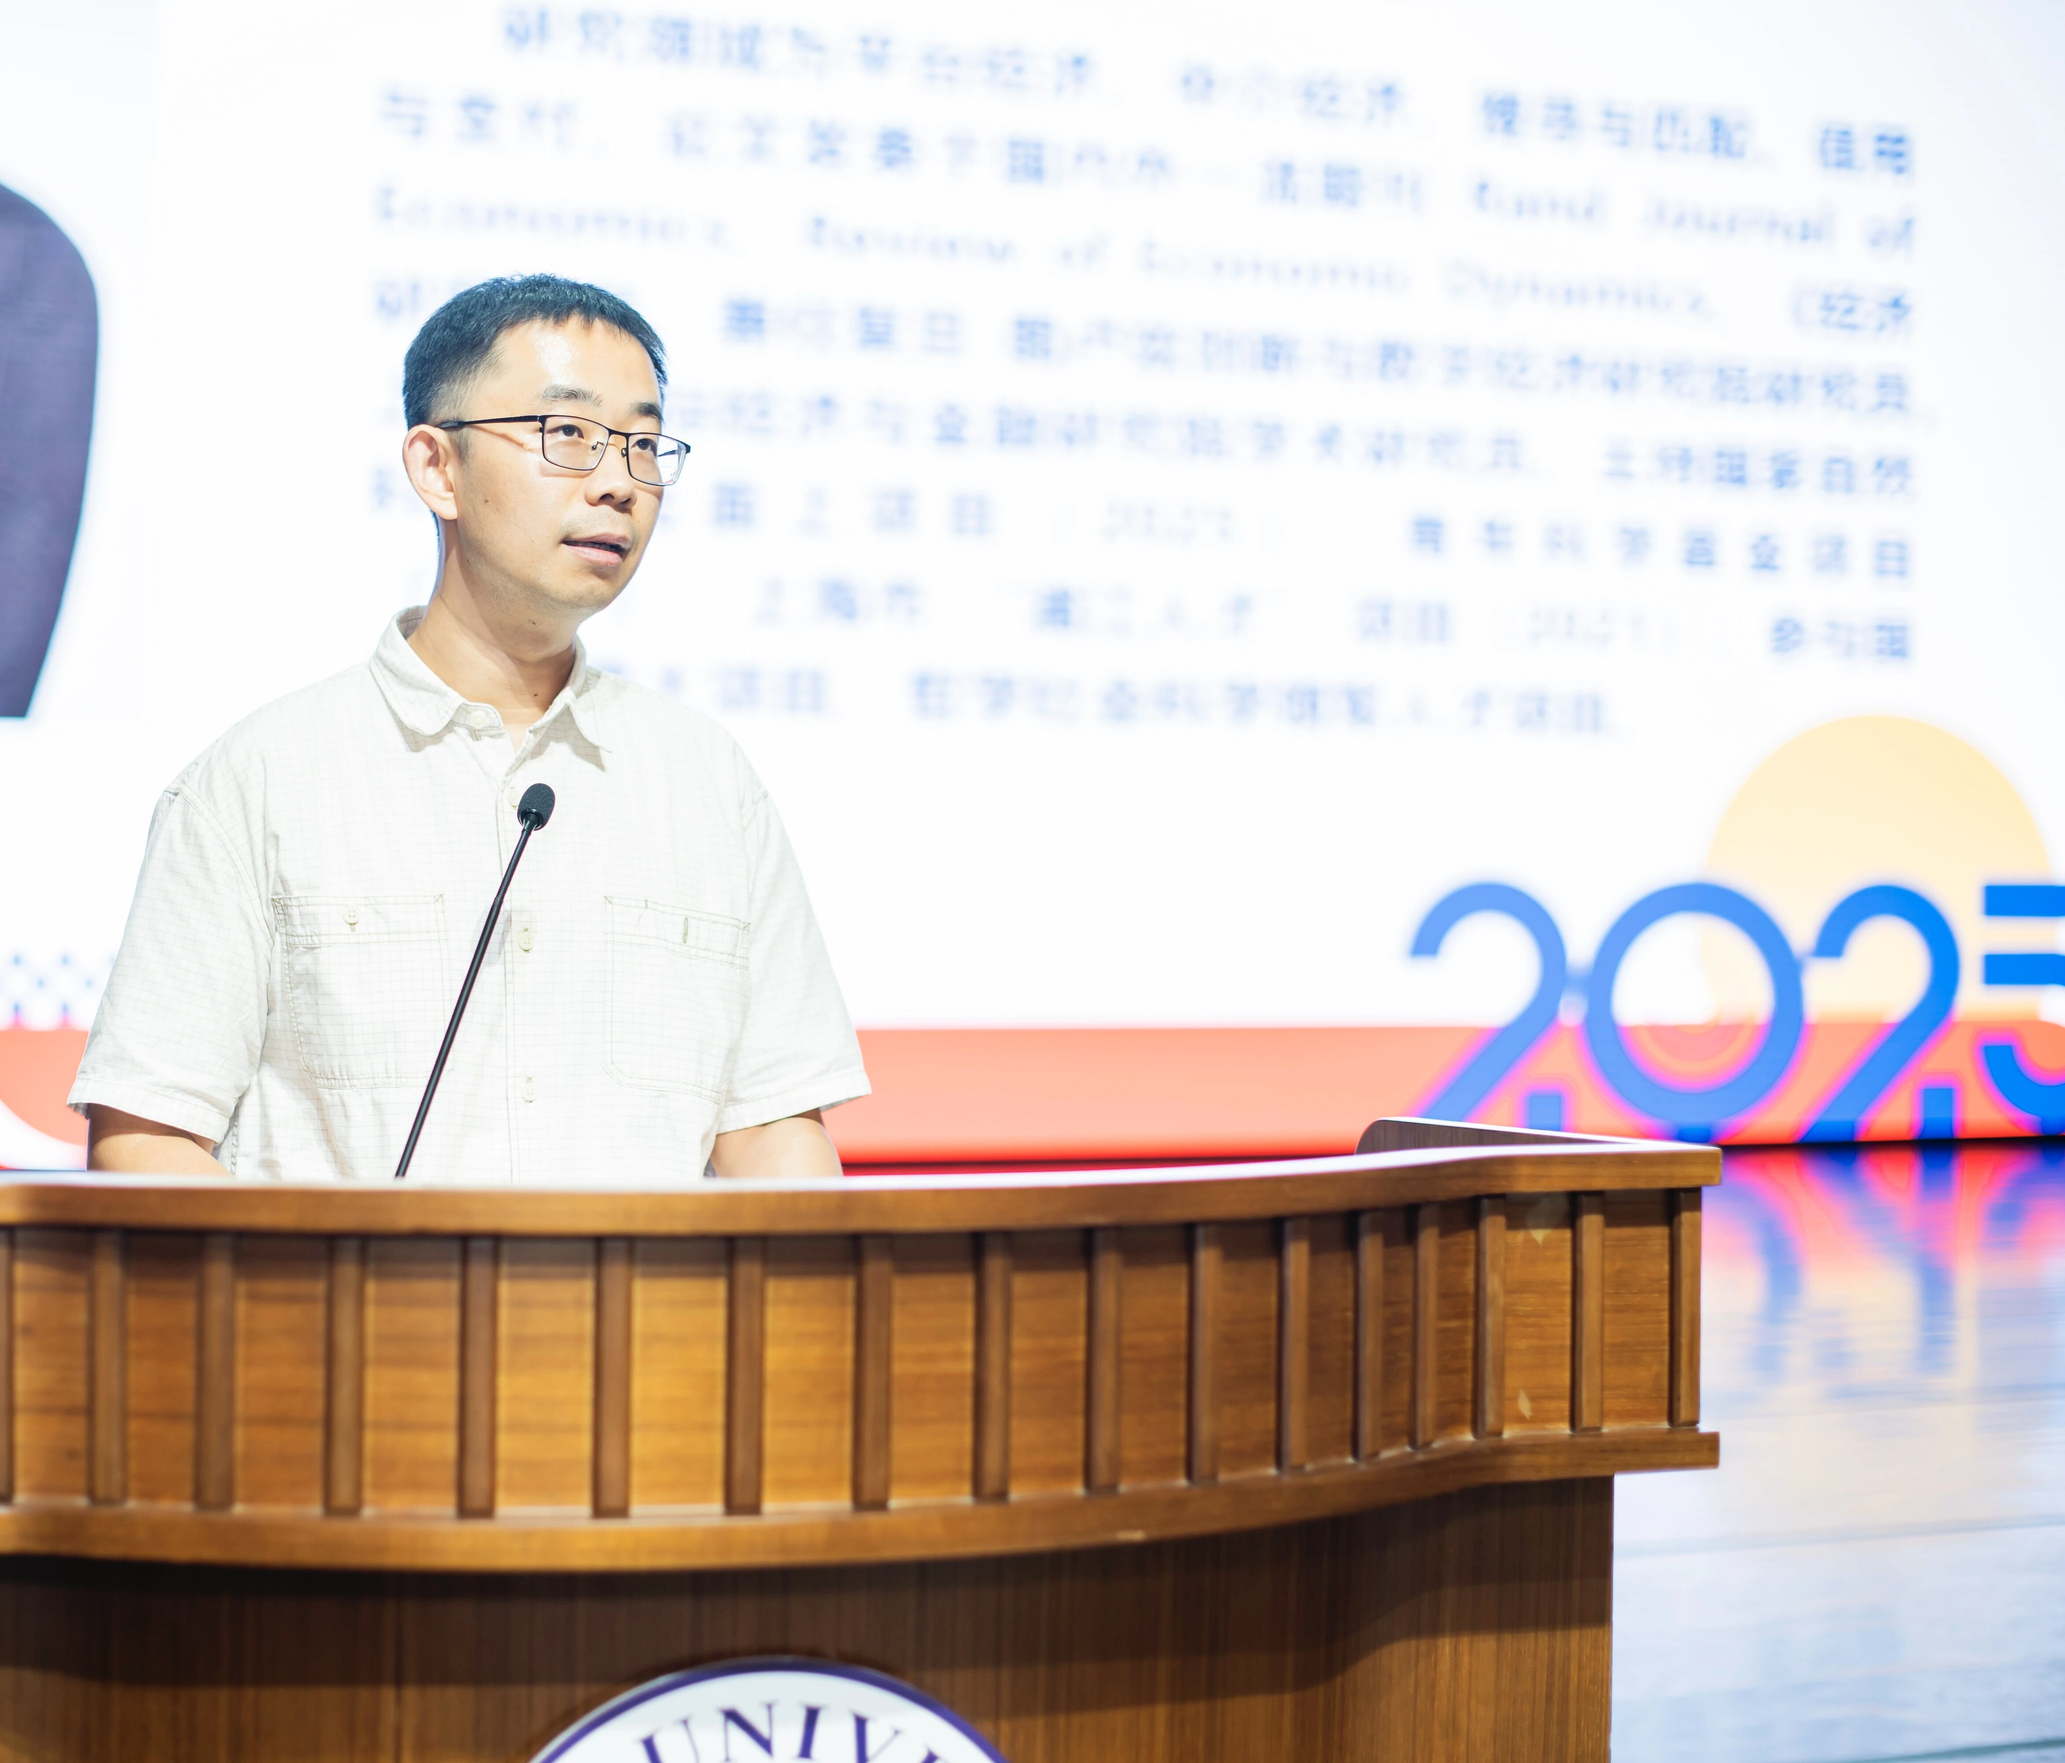
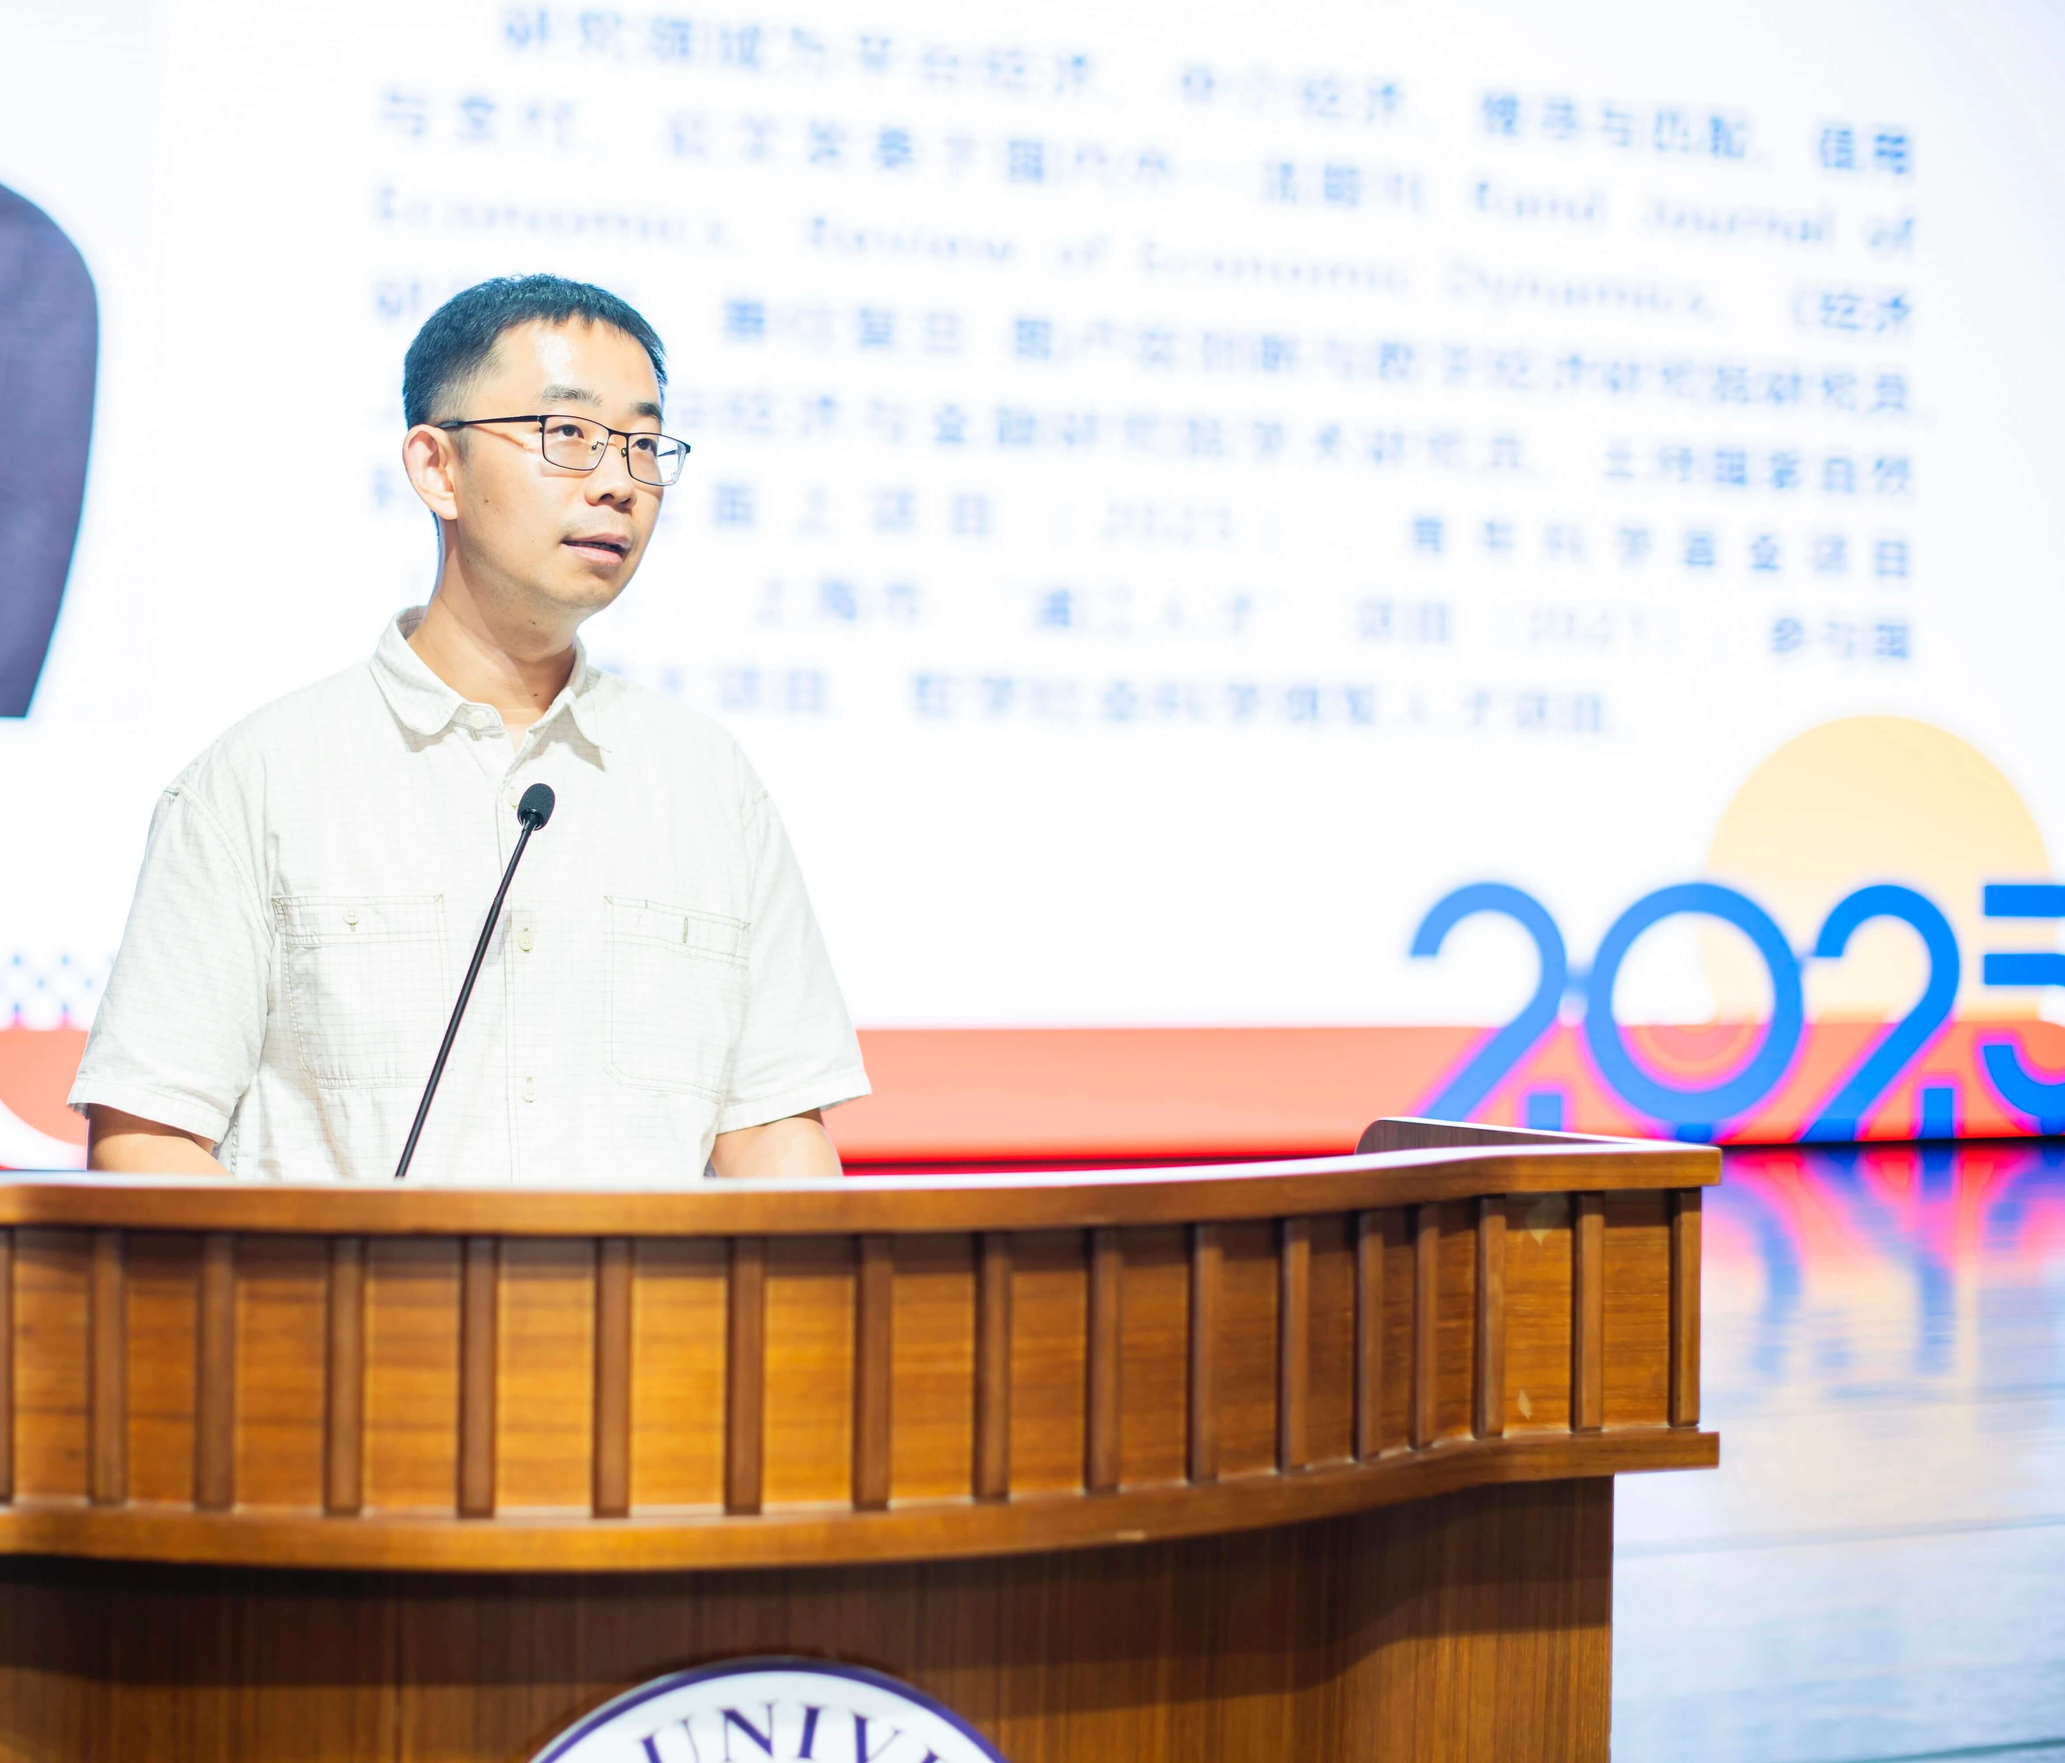
compress images

diff --git a/index.html b/index.html
@@ -116,7 +116,7 @@
   <script>
     // List of hero images and their specific position preferences if any
     const images = [
-      { src: 'images/hero_bg1.png', position: 'center 30%' },
+      { src: 'images/hero_bg1.jpg', position: 'center 30%' },
       { src: 'images/hero_bg2.jpg', position: 'center 55%' },
       { src: 'images/hero_bg3.jpg', position: 'center 20%' }
     ];
